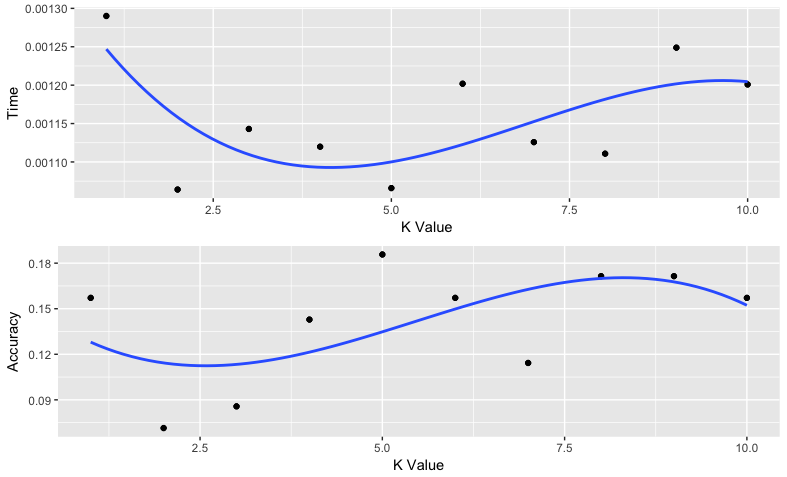
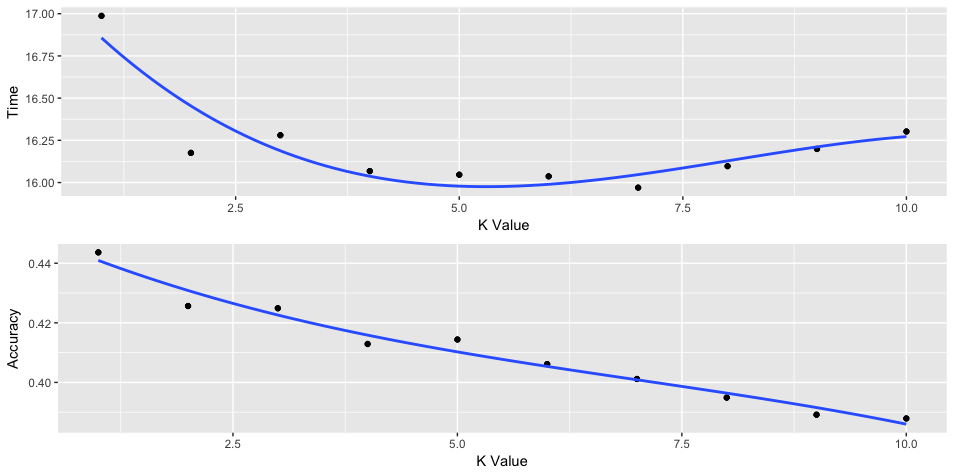
reworked entire assignment 1

diff --git a/readme.md b/readme.md
@@ -51,7 +51,7 @@ Person Dependent :
 |---------|---------|---------|---------|---------|---------|
 |17.30    |21.65    |29.36    |34.66    |40.97    |83.28    |
 
-Person Independent :
+Person Independent : (Data slightly incorrect)
 
 |Min.     |1st Qu.  |Median   |Mean     |3rd Qu.  |Max.     |
 |---------|---------|---------|---------|---------|---------|
@@ -66,41 +66,54 @@ Person Independent :
 > 0.5613603
 
 ### Excersise 1.2-1.4
-*Performance seems to be odd in all results.*
-
-First off lets look at the baseline for the person independent data, the baseline is just a KNN prediction as done in previous tasks with a 90% split.
-We see that the performance is the same as earlier tests. Once again the speeds cannot be trusted, but used as a guideline.
-
-![alt-text](https://github.com/LennartOlsen/pca-digits/blob/master/images/knn-baseline-pid.png "graph")
+**Person independent data is based on the aggregated result set of groups 10 and 12**
 
 Going on to testing a 100% variance with KNN, which means all our PCs. 
-We see that we get a accuracyof about 20% which indicates that there is some problems with my algorithm.
-We do see that the time performance is roughly the same as the baseline.
+We see an accuracy of 90% with K=1, which in turn means that for some reason if we only select our 1 nearest neighbour we are getting the best results.
+Consindering run times (in this case minutes) we see that they are over 1 minute pr iteration.
 
 ![alt-text](https://github.com/LennartOlsen/pca-digits/blob/master/images/knn-100-pid.png "graph")
 
-Working on with on to 80% variance coverage (which is around 53 PCs) we see that our accuracy again is around 16% which is very low, though compared to my full coverage test 100% variance we see that we see that our performance is rougly 4% lower which compares nicely to the 20% difference between the two.
-But we see that our compression have done wonders in computation time
+Working on with on to 80% variance coverage (which is the first 53 PCs), interrestingly we get almost the same score here, meaning that our data may contain a lot of noise which is filtered out by PCA.
+We see that run times are very low, at around 4 seconds for each K.
 
 ![alt-text](https://github.com/LennartOlsen/pca-digits/blob/master/images/knn-80-pid.png "graph")
 
-Working with 90% variance we see a slight increase in accuracy to 20%.
-We see that the run time is still low, and thats good.
+Covering 90% variance we see a slight increase in accuracy and actually even lower run times, this could be down to computer stress levels and throtteling of cpu performance, but this is still remarkable.
+90% variance coverage has given me the best performance in terms of both accuracy and run times.
 
 ![alt-text](https://github.com/LennartOlsen/pca-digits/blob/master/images/knn-90-pid.png "graph")
 
-Skipping past 95% and on to 99% we see thar our performance is lower and our compute times raises a bit, 99% variance is covered by the first 252 PCs.
-This once again might indicate that something is very wrong with my algorithm.
+95 and 99% coverage proved to give higher run times and slightly lower performance, this is properly due to the noise in the images being part of the knn. Interestingly we see that we need almost 100 more PCs to go from 95 to 99% coverage (from 164 to 251), thats almost one third of the PCs (324) to cover the entire dataset, this tells us that very little data is in the last 150 pcs furthermore we see that we can easily manage with only half the data cutting our runtimes to less than a tenth of running knn on all of our data
 
+![alt-text](https://github.com/LennartOlsen/pca-digits/blob/master/images/knn-95-pid.png "graph")
 ![alt-text](https://github.com/LennartOlsen/pca-digits/blob/master/images/knn-99-pid.png "graph")
 
 
-**Restults are the same for person dependent data see https://github.com/LennartOlsen/pca-digits/blob/master/images/ for more graphs**
+**Person dependent data based on my self (group 12 member 1) vs group 10 and 1 (member 1 and 2)**
 
+Looking at the person dependt data gave quite different results, run times are through the fucking roof, and results are shaky at best.
+
+The baseline results, which is knn with a 75% split (the other 3 members), gave long running times, roughly 6 minutes and bad prediction of around 40%.
+This tells us that comparing handwriting from differnt persons is pretty difficult.
+
+![alt-text](https://github.com/LennartOlsen/pca-digits/blob/master/images/knn-baseline-pd.png "graph")
+
+Moving on to our 80% coverage we see a slightly higher 44% accuracy and a run time at a lower 15 seconds pr k.
+The accuracy is again rising on account of less noise, but in this case this could also be attributed to differences being filtered out, such as pen color, crosses in 7's and other things.
+
+![alt-text](https://github.com/LennartOlsen/pca-digits/blob/master/images/knn-80-pd.png "graph")
+
+Working with 90% variance coverage gave worse results and even higher runtimes, this indicates a decline in accuracy from 80% and up, so that could mean that some features are being filtered out that are unnessecary for correct predictions.
+
+![alt-text](https://github.com/LennartOlsen/pca-digits/blob/master/images/knn-90-pd.png "graph")
+
+The pattern presists in 95% variance aswell
+![alt-text](https://github.com/LennartOlsen/pca-digits/blob/master/images/knn-95-pd.png "graph")
 
 ### Excersise 2.1-2.2
 
-2.1 Perform one of the two normalizations suggested in the lecture (min-max normalization and z-score standardization) for the best parameter setting found under 1.3 and apply KNN with 10 fold cross-validation (10 runs, 90% training and 10% test set). Apply the normalization before and after PCA independently and compare the results.
+> 2.1 Perform one of the two normalizations suggested in the lecture (min-max normalization and z-score standardization) for the best parameter setting found under 1.3 and apply KNN with 10 fold cross-validation (10 runs, 90% training and 10% test set). Apply the normalization before and after PCA independently and compare the results.
 
 Using min-max normalization on PC's covering 90% of the variance (best results from previous) and applying KNN in a 10 fold cross validation.
 
@@ -110,5 +123,5 @@ Using min-max normalization on PC's covering 90% of the variance (best results f
 **Normalization After:**
 ![alt-text](https://github.com/LennartOlsen/pca-digits/blob/master/images/cross-knn-90-after.png "graph")
 
-##### Analysis
+#### Analysis
 
